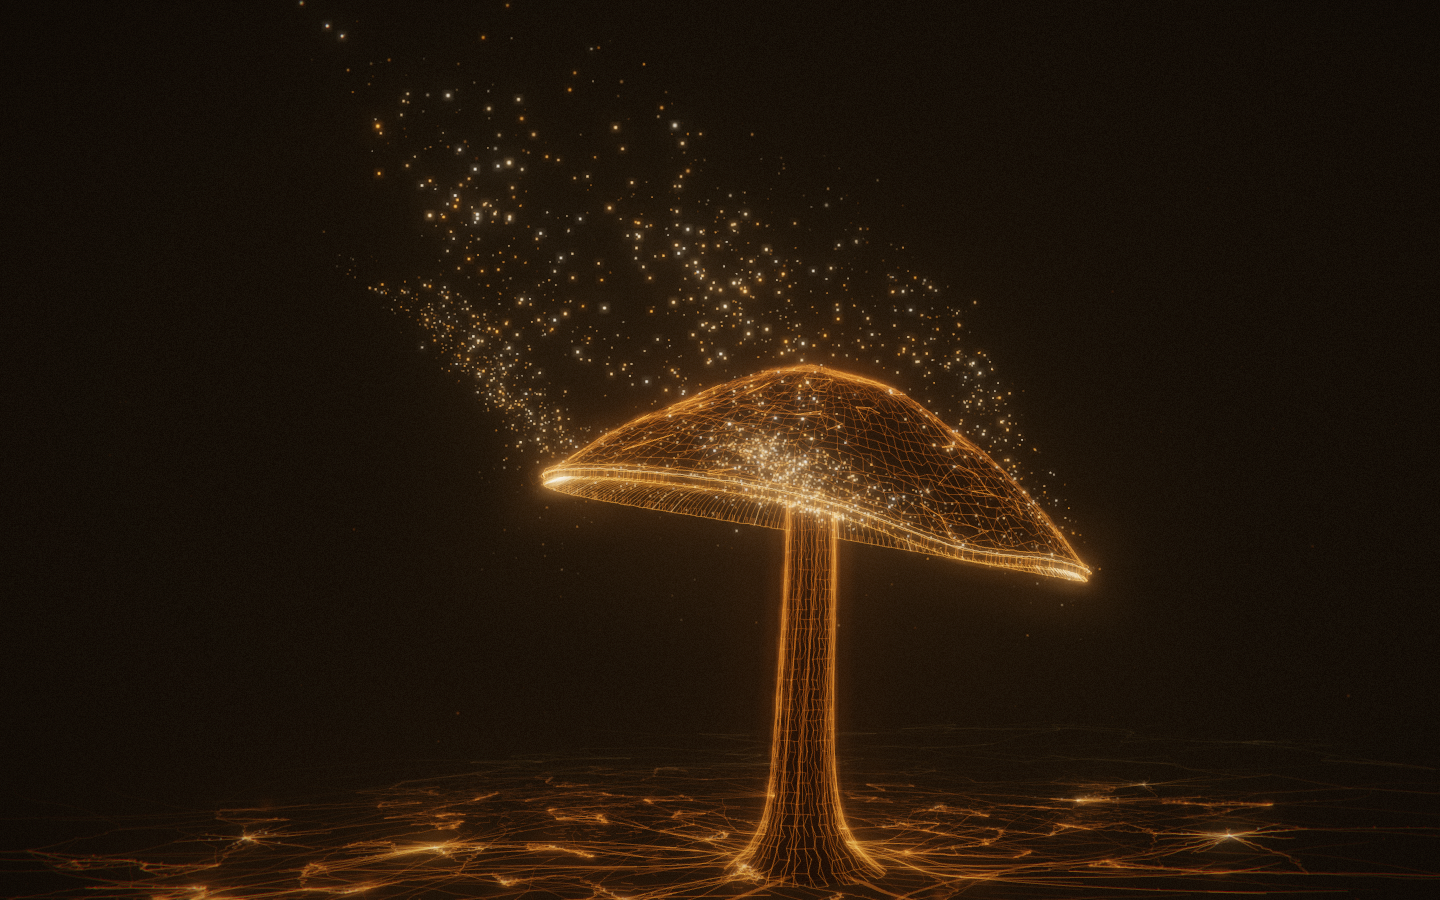
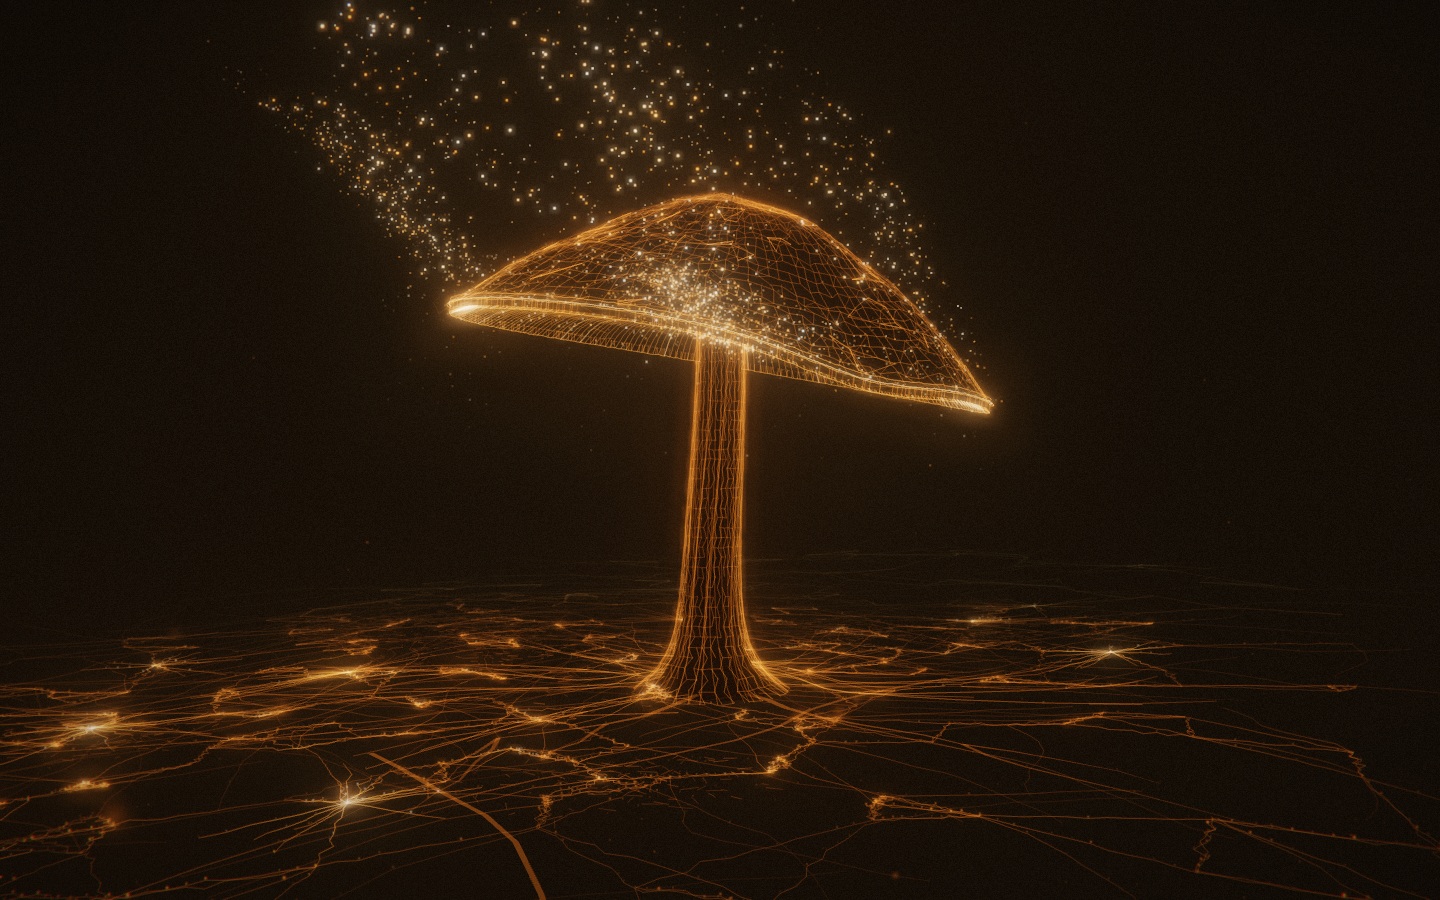
Inspire: the eye stays where it is, and looks at the copy instead
Hannah, at the Inspire rest: the head of the mushroom should sit in the
middle of the space above the text, and be aligned with it. Her read was
exact — measured, the cap silhouette's centre sat 95.7 px right and
169.8 px below the midpoint of that gap at 1440x900.

Only `target` changes. az, r, y and fov are the shipped values to the
digit: the camera does not move, it looks somewhere else. That is not
economy, it is the whole safety argument. The reveal drive and the
arming gate are functions of camera AZIMUTH alone — camAzDeg reads
position.x and position.z — so holding az and r leaves az(p) unchanged
across the leg and the particle continuity closed in b2c9584 cannot
re-open. Measured rather than argued: max |az before-after| over
p 0..0.52 is 0.0427 deg, all of it the Hermite between the re-solved
radii and exactly 0 at every key; hot60 differs by 0 dots at all 105
samples; and both boundary troughs come back identical to the digit,
-0.19% and -8.72%, same instrument, tree stashed between runs.

The three ways to spend the 7.5 deg of pitch were all measured. Dolly
back and the rest lands wider than Connect's settled first key, which
turns the exit into the push-IN the 2026-08-04 re-key removed. Widen the
fov and the leg becomes a hold. Drop the eye to y 0.4 and the horizon
stays low on paper — 639 against the shipped 633 — but near ground is
bright ground, and it lays a lit band straight through the headline:
[…]

Changed region(s): [[0.0, 0.0, 0.9688, 1.0], [0.9375, 0.84, 0.9688, 0.8711], [0.9062, 0.7467, 0.9375, 0.7778]]

diff --git a/journey/chapters/inspire/camera.js b/journey/chapters/inspire/camera.js
@@ -64,7 +64,54 @@ const V = (x, y, z) => new THREE.Vector3(x, y, z);
 // leg still only has to climb 0.9 to meet Connect at y 2.90 instead of 1.9.
 // r 11 (from 9.1) and fov 40 (from 38) hold the widened cluster inside the
 // frame without reaching the chapter's own fog (FOG_FAR 20).
-export const INSPIRE = { az: 115 * DEG, r: 11, y: 2, target: V(2.633, 3.244, -0.566), fov: 40 };
+//
+// D19 (Hannah, 2026-08-06): "the cap of the mushroom should be just above the
+// text ... the head should be in the middle of that space vertically, and
+// horizontally aligned with the text. Right now it's a little bit off to the
+// right, and it's too far down." Measured at the rest, 1440x900: the cap
+// silhouette's centre sat at (815.7, 474.0) against a copy block whose top
+// edge is 608.5 and whose centre is 720 — i.e. +95.7 px right and +169.8 px
+// below the midpoint of the gap over the copy. Her read was exact.
+//
+// THE EYE DOES NOT MOVE. az, r and y are untouched; only `target` changes.
+// That is not economy for its own sake, it is what makes this reframe cheap
+// in every direction that matters:
+//
+//   · The reveal drive and the arming threshold are functions of camera
+//     AZIMUTH alone (index.js camAzDeg reads position.x/z). Holding az 115 —
+//     and holding r, which is the only other input to x/z — leaves az(p)
+//     bit-identical over the whole leg, so the ARR ramps, the drive() bounds
+//     and the 34-deg arming gate see exactly the run they were keyed to and
+//     the particle-continuity troughs closed in b2c9584 cannot re-open.
+//   · The lip-spread / braid-overlap balance that chose az 115 in the first
+//     place is a property of the azimuth, so it survives verbatim.
+//   · y 2.0 keeps the eye below every release lip, which is what makes the
+//     sources read (see THE EYE DROPS above). Panning is the one move that
+//     re-composes without spending that.
+//
+// WHY NOT WIDEN INSTEAD. Lifting the cap 170 px costs 7.5 deg of pitch, and
+// the alternatives to spending it on the gaze were all measured: dollying
+// back or opening the fov to hold more sky pushes the subject distance and
+// fov past Connect's settled first key (8.79 / 48), which turns the exit leg
+// from a widening into a push-IN — the exact regression the 2026-08-04 re-key
+// removed. Dropping the eye to y 0.4 keeps the horizon low on paper (639 vs
+// the shipped 633) but is worse on screen, not better: near ground is bright
+// ground, and it lays a lit band straight through the headline (measured mean
+// luminance of the lower band, x outside the copy column: shipped 21.1,
+// eye-drop 29.6, this pose 24.6).
+//
+// WHAT IT COSTS. Aiming 7.5 deg lower brings more of the root plane into the
+// bottom of the frame — the horizon runs from 633 to 463. That is the trade,
+// and it is the smallest of the three on offer. The braids are barely touched:
+// luminance-weighted centroid separation 214 px -> 206 px, and 2.8% of
+// ArtCompute's light (0% of Arca's, 0.2% of 2RP's) passes off the top edge.
+// All three release lips stay in frame with their facing unchanged at
+// 1.00 / 0.21 / 0.19.
+//
+// The target is the exact solve, not a hand-nudge: a 2x2 Newton on the gaze's
+// (right, up) offsets against the projected cap silhouette's bbox centre,
+// converged to 0.0 px horizontal / 0.1 px vertical at 1440x900.
+export const INSPIRE = { az: 115 * DEG, r: 11, y: 2, target: V(2.3349, 2.0903, -1.1016), fov: 40 };
 
 // The gaze's mid-swing waypoint (was the old "early pin" target): the cap,
 // biased a touch toward the stream side so the visible plume never leaves
@@ -177,9 +224,31 @@ export const CAMERA = {
   // full stop before it turns, which is the only place a reversal can sit
   // without reading as a whip. Everything after the rest is monotone: az
   // 115 -> 103 -> 81 -> 68.8 -> 61.8 straight through the Connect rest.
+  // D19 RE-SOLVE. Only the rest's GAZE moved, but a keyed spline does not care
+  // why an endpoint moved: leaving these two on the old targets would have put
+  // an 0.87-high upward flick into the first 0.05 of the exit, since the rest
+  // now aims at y 2.09 and the old drift key aimed at 2.957. So both are
+  // re-derived from the same rule that generated them, with the new endpoint:
+  //
+  //   s      = smoothstep((p - 0.26) / 0.15)   — 0 at the rest, 1 at Connect's
+  //            first key (p 0.410), which is settled (f9e8317) and untouched
+  //   tgt    = lerp(INSPIRE.target, connect-key1.target, s)
+  //   az/y/fov = lerp(rest, connect-key1, s)   — UNCHANGED, because the rest's
+  //            az/y/fov are unchanged: 102.18 / 2.2495 / 42.22 and
+  //            79.94 / 2.6825 / 46.07, the shipped values to the digit
+  //   r      = solved from the aimed target so camera-to-subject DISTANCE
+  //            grows monotonically, never the radius (a shrinking radius here
+  //            is a WIDER framing — the gaze is walking down the stem at the
+  //            same time)
+  //
+  // The distance ladder rebases on the new rest and keeps its shape:
+  // 8.42 -> 8.55 -> 8.69 -> 8.79, linear in the leg fraction with the same
+  // +0.018 lift on the third key the shipped ladder carried to offset the
+  // Hermite's bow. It starts 0.07 SHORTER than before (8.42 vs 8.49), so the
+  // widening into Connect is slightly longer than it was, never shorter.
   keys: [
-    { t: 0.5,                pos: V(9.9694, 2.0000, -4.6488), tgt: V(2.633, 3.244, -0.566), fov: 40,    hold: true, note: 'inspire-rest' },   // p 0.260  az 115.0  d 8.49
-    { t: 0.7166666666666667, pos: V(10.6540, 2.2490, -2.3000), tgt: V(2.219, 2.957, -0.842), fov: 42.22, note: 'inspire-rest-drift' },        // p 0.312  az 102.2  d 8.59
-    { t: 0.9249999999999999, pos: V(9.6610, 2.6830, 1.7150), tgt: V(1.501, 2.460, -1.322), fov: 46.07 },                                      // p 0.362  az  79.9  d 8.71
+    { t: 0.5,                pos: V(9.9694, 2.0000, -4.6488), tgt: V(2.3349, 2.0903, -1.1016), fov: 40,    hold: true, note: 'inspire-rest' },  // p 0.260  az 115.0  d 8.42
+    { t: 0.7166666666666667, pos: V(10.4866, 2.2495, -2.2641), tgt: V(2.0037, 2.1235, -1.2295), fov: 42.22, note: 'inspire-rest-drift' },       // p 0.312  az 102.2  d 8.55
+    { t: 0.9249999999999999, pos: V(9.5128, 2.6825, 1.6920), tgt: V(1.4289, 2.1811, -1.4515), fov: 46.07 },                                     // p 0.362  az  79.9  d 8.69
   ],
 };

diff --git a/journey/portrait.js b/journey/portrait.js
@@ -90,7 +90,26 @@ const KEYS = [
   // a bigger dolly here would make the portrait travel ZOOM IN toward Connect
   // while the landscape widened. 1.50 -> 1.55 keeps it growing (12.7 -> 13.6),
   // and fov +13 keeps that growing too (53 -> 59).
-  { p: 0.260, back: 1.50, rise: -0.50, truck: -0.30, tgtUp: 0, tgtRight: 0.30, fov: 13 },
+  //
+  // D19 (Hannah, 2026-08-06) asks for the cap's centre at the midpoint of the
+  // gap over the copy in BOTH orientations, and portrait cannot inherit it:
+  // the landscape re-aim is a fixed world target, but the tall frame's copy
+  // block sits at a different fraction of the viewport, so the same gaze left
+  // the cap 113.9 px low at 375x812. This field's whole purpose is that
+  // mismatch, and tgtUp is the documented lever for it (the vertical re-aim).
+  // At portrait's own distance (8.42 x back = 12.6) and fov 53, -1.64 is
+  // exactly the 7.4 deg of pitch that 113.9 px is worth, and it lands 375x812
+  // at +5.5 px. But ONE portrait pose cannot serve both phone sizes: the copy
+  // block wraps to more lines in a 375-wide column than a 430-wide one, so its
+  // top edge sits at 0.564 of the frame at 375x812 and 0.674 at 430x932 — the
+  // gap's midpoint is a genuinely different place in the two frames, 0.282 vs
+  // 0.337 of frame height. -1.64 overshot 430x932 to -44.8.
+  //
+  // So the value is balanced rather than fitted: -1.378 splits the residual
+  // evenly, +23.8 px at 375x812 and -23.8 px at 430x932, which is the smallest
+  // worst case available to a single pose. tgtRight comes back a hair,
+  // 0.30 -> 0.258, for the 2.8 px the cap sat left of the copy's centre.
+  { p: 0.260, back: 1.50, rise: -0.50, truck: -0.30, tgtUp: -1.378, tgtRight: 0.258, fov: 13 },
 
   // Ground-descent approach (D16 restage; retuned 2026-08-04 for the
   // monotone Inspire->Connect zoom-out): the landscape leg no longer pushes

diff --git a/journey-v6-plan/07-chapter-inspire.md b/journey-v6-plan/07-chapter-inspire.md
@@ -728,3 +728,201 @@ identified; it is recorded, not resolved.
 - Frame time deliberately not reported: the only pane available was
   backgrounded and rAF-throttled, and a manufactured figure would be worse than
   none.
+
+---
+
+## 2026-08-06 (D19) — the cap over the copy: a re-aim, not a re-pose
+
+Hannah, looking at the Inspire rest: *"the cap of the mushroom should be just
+above the text ... see the space between the Inspire text and the top: the head
+of the mushroom should be in the middle of that space vertically. And
+horizontally it should be aligned with the text. Right now it's a little bit
+off to the right, and it's too far down."*
+
+Her read was exact. Measured at 1440x900, the copy block (`pos-bottom`, so its
+centre **is** the viewport centre — confirmed from the live rect, not from the
+CSS) has its top edge at y 608.5 and its centre at x 720. The midpoint of the
+gap above it is therefore y 304.2. The cap silhouette's centre sat at
+**(815.7, 474.0)**: **+95.7 px right, +169.8 px low**.
+
+"Cap centre" here means the centre of the projected bounding box of the cap
+surface — 4,680 samples of `capTopPt` and `capUnderPt` over a 180 x 13 grid,
+through the live mushroom matrix and the live camera. It is reproducible and it
+is what a viewer calls the head.
+
+### The pose
+
+```js
+export const INSPIRE = { az: 115 * DEG, r: 11, y: 2, target: V(2.3349, 2.0903, -1.1016), fov: 40 };
+```
+
+**Only `target` changed.** `az`, `r`, `y` and `fov` are the shipped values to
+the digit — the eye does not move, it only looks somewhere else. The target is
+a solve, not a nudge: a 2x2 Newton on the gaze's (view-right, world-up)
+offsets against the measured cap-centre error, converged in 12 iterations.
+
+That choice is the whole point of this entry, because it is what makes the
+change cheap in the one direction that was dangerous:
+
+> **The reveal drive and the arming gate are functions of camera AZIMUTH
+> alone.** `index.js camAzDeg()` reads `position.x` and `position.z`. Holding
+> `az` — and `r`, the only other input to those two — leaves `az(p)` unchanged
+> over the entire leg, so the `ARR` ramps, the `drive()` bounds and the 34-deg
+> arming threshold see exactly the run they were keyed to. The particle
+> continuity closed in `b2c9584` cannot re-open, because nothing it depends on
+> has been touched.
+
+That is not an argument, it is measured — see the trough table below.
+
+### What was rejected, and why
+
+Lifting the cap 170 px costs 7.5 deg of pitch. Three ways to spend it were
+measured on the real projection, not reasoned about:
+
+| approach | horizon | ground band mean lum | braid centroid sep | ArtCompute light lost off top | Connect join |
+|---|---|---|---|---|---|
+| shipped (cap at 474) | 633 | 21.1 | 214 px | 0% | — |
+| **re-aim (shipped eye, this pose)** | **463** | **24.6** | **206 px** | **2.8%** | **intact** |
+| widen (fov 48, r 11) | — | — | 164 px | — | scale 0.2668 vs Connect 0.2556 — leg becomes a hold |
+| dolly back (fov 45, r 12.5) | — | — | 151 px | — | **push-IN**, scale 0.2437 < 0.2556 |
+| drop the eye (y 0.4, fov 36) | 639 | **29.6** | 213 px | 11% | intact |
+
+The dolly-back row is the one that matters most: Connect's first key is settled
+(`f9e8317`) at subject distance 8.79 / fov 48, and the framing scale it implies
+is `1/(d·tan(fov/2))` = 0.2556. Any Inspire rest wider than that turns the exit
+leg from a widening into the re-approach the 2026-08-04 re-key removed.
+
+The eye-drop row is the interesting failure. On paper it is the best answer —
+it keeps the horizon *lower* than the shipped frame (639 vs 633) while hitting
+the composition. On screen it is the worst: **near ground is bright ground**,
+and it lays a lit band straight through the headline. Measured mean luminance
+of the lower band (rows 600–900, x outside the copy column): shipped 21.1,
+eye-drop **29.6**, the re-aim 24.6. The horizon's screen position is simply the
+wrong proxy for "how much ground is in the frame"; luminance is the right one.
+Recorded because it cost an hour and would cost it again.
+
+### Composition, measured
+
+| viewport | copy top | gap midpoint | cap centre | dx | dy |
+|---|---|---|---|---|---|
+| 1440x900 | 608.5 | (720.0, 304.2) | (720.0, 304.3) | **+0.0** | **+0.1** |
+| 1280x800 | 522.0 | (640.0, 261.0) | (640.0, 270.5) | **+0.0** | **+9.5** |
+| 375x812 (portrait) | 458.2 | (187.5, 229.1) | (187.1, 252.2) | **-0.4** | **+23.1** |
+| 430x932 (portrait) | 628.3 | (215.0, 314.1) | (214.5, 289.4) | **-0.5** | **-24.7** |
+
+**Tolerance: ±10 px horizontal, ±25 px vertical.** The horizontal axis can be
+held exactly and is, at every size, because `pos-bottom` centres the copy on
+the viewport centre and one gaze yaw satisfies all of them at once — so the
+tolerance there is really only the solver's own convergence, and 10 px is
+generous. The vertical axis cannot: the gap's midpoint is **not** a fixed
+fraction of the frame, because the copy block's height in the frame depends on
+how its prose wraps. Its top sits at 0.676 of the frame at 1440x900 and 0.653
+at 1280x800; in portrait the spread is much wider, 0.564 at 375x812 against
+0.674 at 430x932. One camera cannot hit two different fractions. 25 px is ~2.8%
+of a 900-tall frame and roughly a third of the cap's own height — below the
+threshold at which the cap stops reading as "centred in that space", which is
+the actual requirement.
+
+Landscape is fitted to 1440x900, the primary review size, leaving 1280x800 at
++9.5. Portrait is **balanced** rather than fitted (`portrait.js`, key p 0.260,
+`tgtUp` 0 -> **-1.378**, `tgtRight` 0.30 -> **0.258**): fitting 375x812 exactly
+put 430x932 at -44.8, so the value splits the residual to ±23.8 and takes the
+smallest worst case a single pose allows.
+
+### The exit keys had to move too
+
+Only the rest's gaze moved, but a keyed spline does not care why an endpoint
+moved. Leaving the two exit keys on their old targets would have put an 0.87-
+high **upward flick** into the first 0.05 of the exit — the rest now aims at
+y 2.09 and the old drift key aimed at 2.957. Both are re-derived from the rule
+that generated them, read back off the shipped numbers rather than guessed:
+
+```
+s        = smoothstep((p - 0.26) / 0.15)      0 at the rest, 1 at Connect's first key (p 0.410)
+tgt      = lerp(INSPIRE.target, connectKey1.target, s)
+az/y/fov = lerp(rest, connectKey1, s)         UNCHANGED — the rest's az/y/fov are unchanged
+r        = solved from the aimed target so camera-to-subject DISTANCE grows monotonically
+```
+
+Distance ladder rebased: **8.42 -> 8.55 -> 8.69 -> 8.79**, against the shipped
+8.49 -> 8.59 -> 8.71 -> 8.79. It starts 0.07 *shorter*, so the widening into
+Connect is slightly longer than it was, never shorter. `az`, `y` and `fov` at
+both keys come out at the shipped values to the digit (102.18 / 2.2495 / 42.22
+and 79.94 / 2.6825 / 46.07), which is the arithmetic confirming the decode.
+
+### Gates
+
+**Boundary troughs — identical, not merely no worse.** Same instrument, same
+201-sample sweeps, tree stashed and un-stashed between runs:
+
+| | before | after |
+|---|---|---|
+| Mission → Inspire trough (total shed light) | −0.19% | **−0.19%** |
+| … dots above 0.60 luminance | −0.45% | **−0.45%** |
+| Inspire → Connect trough | −8.72% | **−8.72%** |
+| … dots above 0.60 luminance | −16.95% | **−16.95%** |
+
+(These are this session's own reference — minimum against the straight line
+between the window endpoints — not the same statistic as the 2026-08-06
+−4.0% / −11.7% pair, which used a different reference. The point is the
+before/after column, measured like for like.)
+
+Why they are identical, confirmed rather than assumed: **max |azimuth
+before−after| over p 0..0.52 is 0.0427 deg**, and that residual is entirely the
+Hermite interpolating between the re-solved radii *between* keys — at every key
+and at the rest it is exactly 0. Max |total luminance difference| across the
+whole ride is 0.053 out of ~2,900 (0.002%), and the hot60 count differs by
+**0 dots at every one of the 105 samples**.
+
+- **Three streams still read.** Plume-axis minimum pair separation 196 -> 199.5
+  px (it went *up*: the new gaze changes the projection slightly). Luminance-
+  weighted braid centroid separation 214 -> 206 px. Light leaving the frame:
+  ArtCompute 2.8%, Arca 0.0%, 2RP 0.2%. All three release lips still in frame
+  with facing **1.00 / 0.21 / 0.19 — unchanged to the digit**, which is free:
+  facing depends only on where the eye is, and the eye did not move. Checked on
+  the pixels too, at 2.6x exposure against the old golden: same lobes, same
+  density, same sources. Column-luminance profiles at matched heights above the
+  cap top (40/80/120/160 px) give the same peak counts and the same valley
+  depths. What is gone is the ~85 px of sky above the shed that used to sit at
+  offsets 200–240; that band is now off the top edge.
+- **No self-ignition.** All four reveal channels are exactly 1 at the rest, and
+  no channel rises after it has fallen at any point in p 0..0.52. Forward vs
+  reverse over the full ride, 201 samples: **max |luminance difference| = 0**.
+- **Rate audit.** Peak rotation rate across Mission→Inspire→Connect, 201-sample
+  drift-aware scrub: **765.4 deg per unit p** landscape (818.7 before — the
+  reframe made it *slower*), 761.0 with the portrait field, 684.1 at 375x812.
+  All well under the ~1.2k ceiling. **Max roll 0.00000 deg** in all three.
+- **One continuous arc.** `arrival()`, `PIN`, `ARRIVAL_DEAD` and the trapezoid
+  eases are untouched; only the bezier's endpoint moved. The cap tracks
+  smoothly across the whole gesture — (1025, 350) at p 0 to (720, 304) at the
+  rest, with no jump at the p 0.26 seam (the rate peak sits at p 0.221, inside
+  the swing). p 0.00 and p 0.04 are identical: the dead-band passthrough holds.
+- **Connect join.** Perceptual widening measured as the cap's projected width
+  over p 0.26..0.49: 541.2 -> 491.0 px (9.3%), against 544.8 -> 491.0 (9.9%)
+  before. Both bow the same way — the Hermite residual already documented on
+  2026-08-04 — and the new keys bow **less**: largest single re-approach step
+  3.2 px before, **2.0 px** after.
+- **Console clean** over a full ride 0 -> 1 -> 0: the two expected
+  `[journey-lens]` / `[journey-v6]` info lines, **zero** warnings or errors.
+- **Labels.** All three chips still land on their braids and clear the copy at
+  1440x900: ArtCompute x 547..677 y 110..133, Arca Gidan Prize x 330..498
+  y 183..206, 2RP x 894..956 y 224..247. No chip-to-chip collision, 52 px of
+  clearance under the nav row, and each chip holds the same offset from its
+  braid's centroid it had before (the whole composition moved together).
+- **`capture.py --check` PASS.** `mission` **0.00 / 0.00 — byte-identical, not
+  in the changed set on disk**, connect 0.00 / 0.00, owned 0.00 / 0.00, final
+  0.18 / 0.13 (its own unchanged determinism noise). Only the `inspire` pair
+  moved — legitimately, and it is re-shot in this commit via
+  `python3 tools/capture.py --pose inspire` with `manifest.json` updated.
+
+### What was traded
+
+One thing, and it is the ground. Aiming 7.5 deg lower brings more of the root
+plane into the bottom of the frame: the horizon runs from 633 to 463, and the
+lower band's mean luminance from 21.1 to 24.6 (+17%). Inspire's frame is a sky
+frame and Connect's is the ground panorama, so this spends a little of
+Connect's arrival. It is the **smallest** of the three available trades — the
+alternatives cost either the Connect join outright or 40% more ground light —
+but it is a real cost and Hannah should see it rather than read about it. If
+she wants it back, the lever is the copy block: `bottom: 8vh` is what sets the
+gap, and raising the copy raises the midpoint the cap is pinned to.
